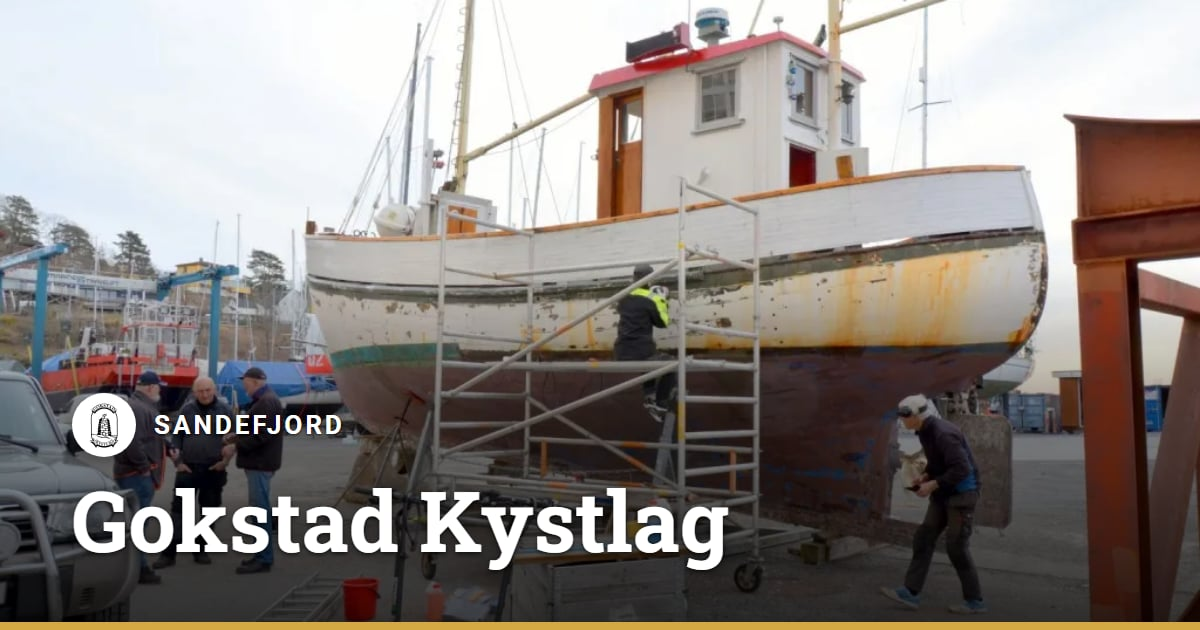
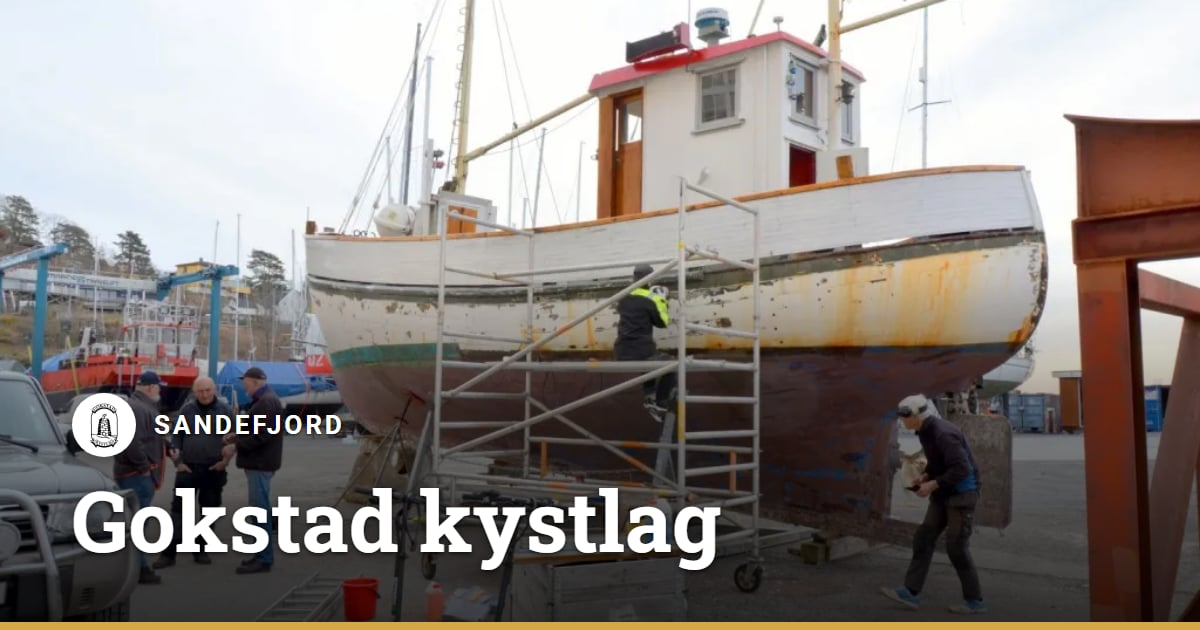
fix(tekst): kystlag med liten k, slik styret vil ha det
Vipps-navnet på gjestebryggesiden står urørt til vi vet hvordan det er registrert.

Changed region(s): [[0.3392, 0.754, 0.6167, 0.9048]]

diff --git a/scripts/og-mal.html b/scripts/og-mal.html
@@ -119,7 +119,7 @@
   <script>
     const p = new URLSearchParams(location.search);
     const variant = p.get('variant') || 'a';
-    const tittel = p.get('tittel') || 'Gokstad Kystlag';
+    const tittel = p.get('tittel') || 'Gokstad kystlag';
     const kort = document.getElementById('kort');
     kort.classList.add(variant);
     const foto = document.getElementById('foto');
@@ -131,15 +131,15 @@
     }
     const logo = '<div class="logo"><img src="../public/images/logo.webp" alt=""></div>';
     const innhold = document.getElementById('innhold');
-    const forside = tittel === 'Gokstad Kystlag';
+    const forside = tittel === 'Gokstad kystlag';
     if (variant === 'a') {
       innhold.innerHTML = logo + '<h1></h1><div class="strek"></div><div class="merke"></div>';
-      innhold.querySelector('.merke').textContent = forside ? 'Sandefjord' : 'Gokstad Kystlag';
+      innhold.querySelector('.merke').textContent = forside ? 'Sandefjord' : 'Gokstad kystlag';
     } else if (variant === 'b') {
       innhold.innerHTML = '<div class="topp">' + logo + '<div class="merke"></div></div><h1></h1>';
-      innhold.querySelector('.merke').textContent = forside ? 'Sandefjord' : 'Gokstad Kystlag';
+      innhold.querySelector('.merke').textContent = forside ? 'Sandefjord' : 'Gokstad kystlag';
     } else {
-      innhold.innerHTML = logo + '<div class="merke">Gokstad Kystlag</div>';
+      innhold.innerHTML = logo + '<div class="merke">Gokstad kystlag</div>';
     }
     const h1 = innhold.querySelector('h1');
     if (h1) {

diff --git a/src/lib/kalender.ts b/src/lib/kalender.ts
@@ -113,7 +113,7 @@ export function byggIcs(arr: ArrangementForKalender): string {
   const linjer = [
     "BEGIN:VCALENDAR",
     "VERSION:2.0",
-    "PRODID:-//Gokstad Kystlag//Arrangementer//NO",
+    "PRODID:-//Gokstad kystlag//Arrangementer//NO",
     "CALSCALE:GREGORIAN",
     "BEGIN:VEVENT",
     `UID:${uid}`,

diff --git a/src/content/artikler/velkommen-ny-nettside.md b/src/content/artikler/velkommen-ny-nettside.md
@@ -1,11 +1,11 @@
 ---
 tittel: "Velkommen til vår nye nettside!"
-beskrivelse: "Gokstad Kystlag har fått ny nettside. Her finner du informasjon om arrangementer, lagene våre og hvordan du kan bli medlem."
+beskrivelse: "Gokstad kystlag har fått ny nettside. Her finner du informasjon om arrangementer, lagene våre og hvordan du kan bli medlem."
 dato: 2026-09-29
 forfatter: "Infolaget"
 ---
 
-Gokstad Kystlag har fått ny nettside! Her kan du finne informasjon om alle våre 11 arbeidslag, kommende arrangementer, og lese artikler fra Kystvakt.
+Gokstad kystlag har fått ny nettside! Her kan du finne informasjon om alle våre 11 arbeidslag, kommende arrangementer, og lese artikler fra Kystvakt.
 
 ## Hva finner du her?
 

diff --git a/src/content/arrangementer/kystkulturdagen-2026.md b/src/content/arrangementer/kystkulturdagen-2026.md
@@ -2,7 +2,7 @@
 tittel: "Kystkulturdagen 2026"
 beskrivelse: "Åpen dag for alle med fiskekaker, omvisning på Motormuseet og aktiviteter for hele familien."
 dato: 2026-06-15
-sted: "Gokstad Kystlag, Sandefjord"
+sted: "Gokstad kystlag, Sandefjord"
 starttid: "11:00"
 sluttid: "17:00"
 ---
